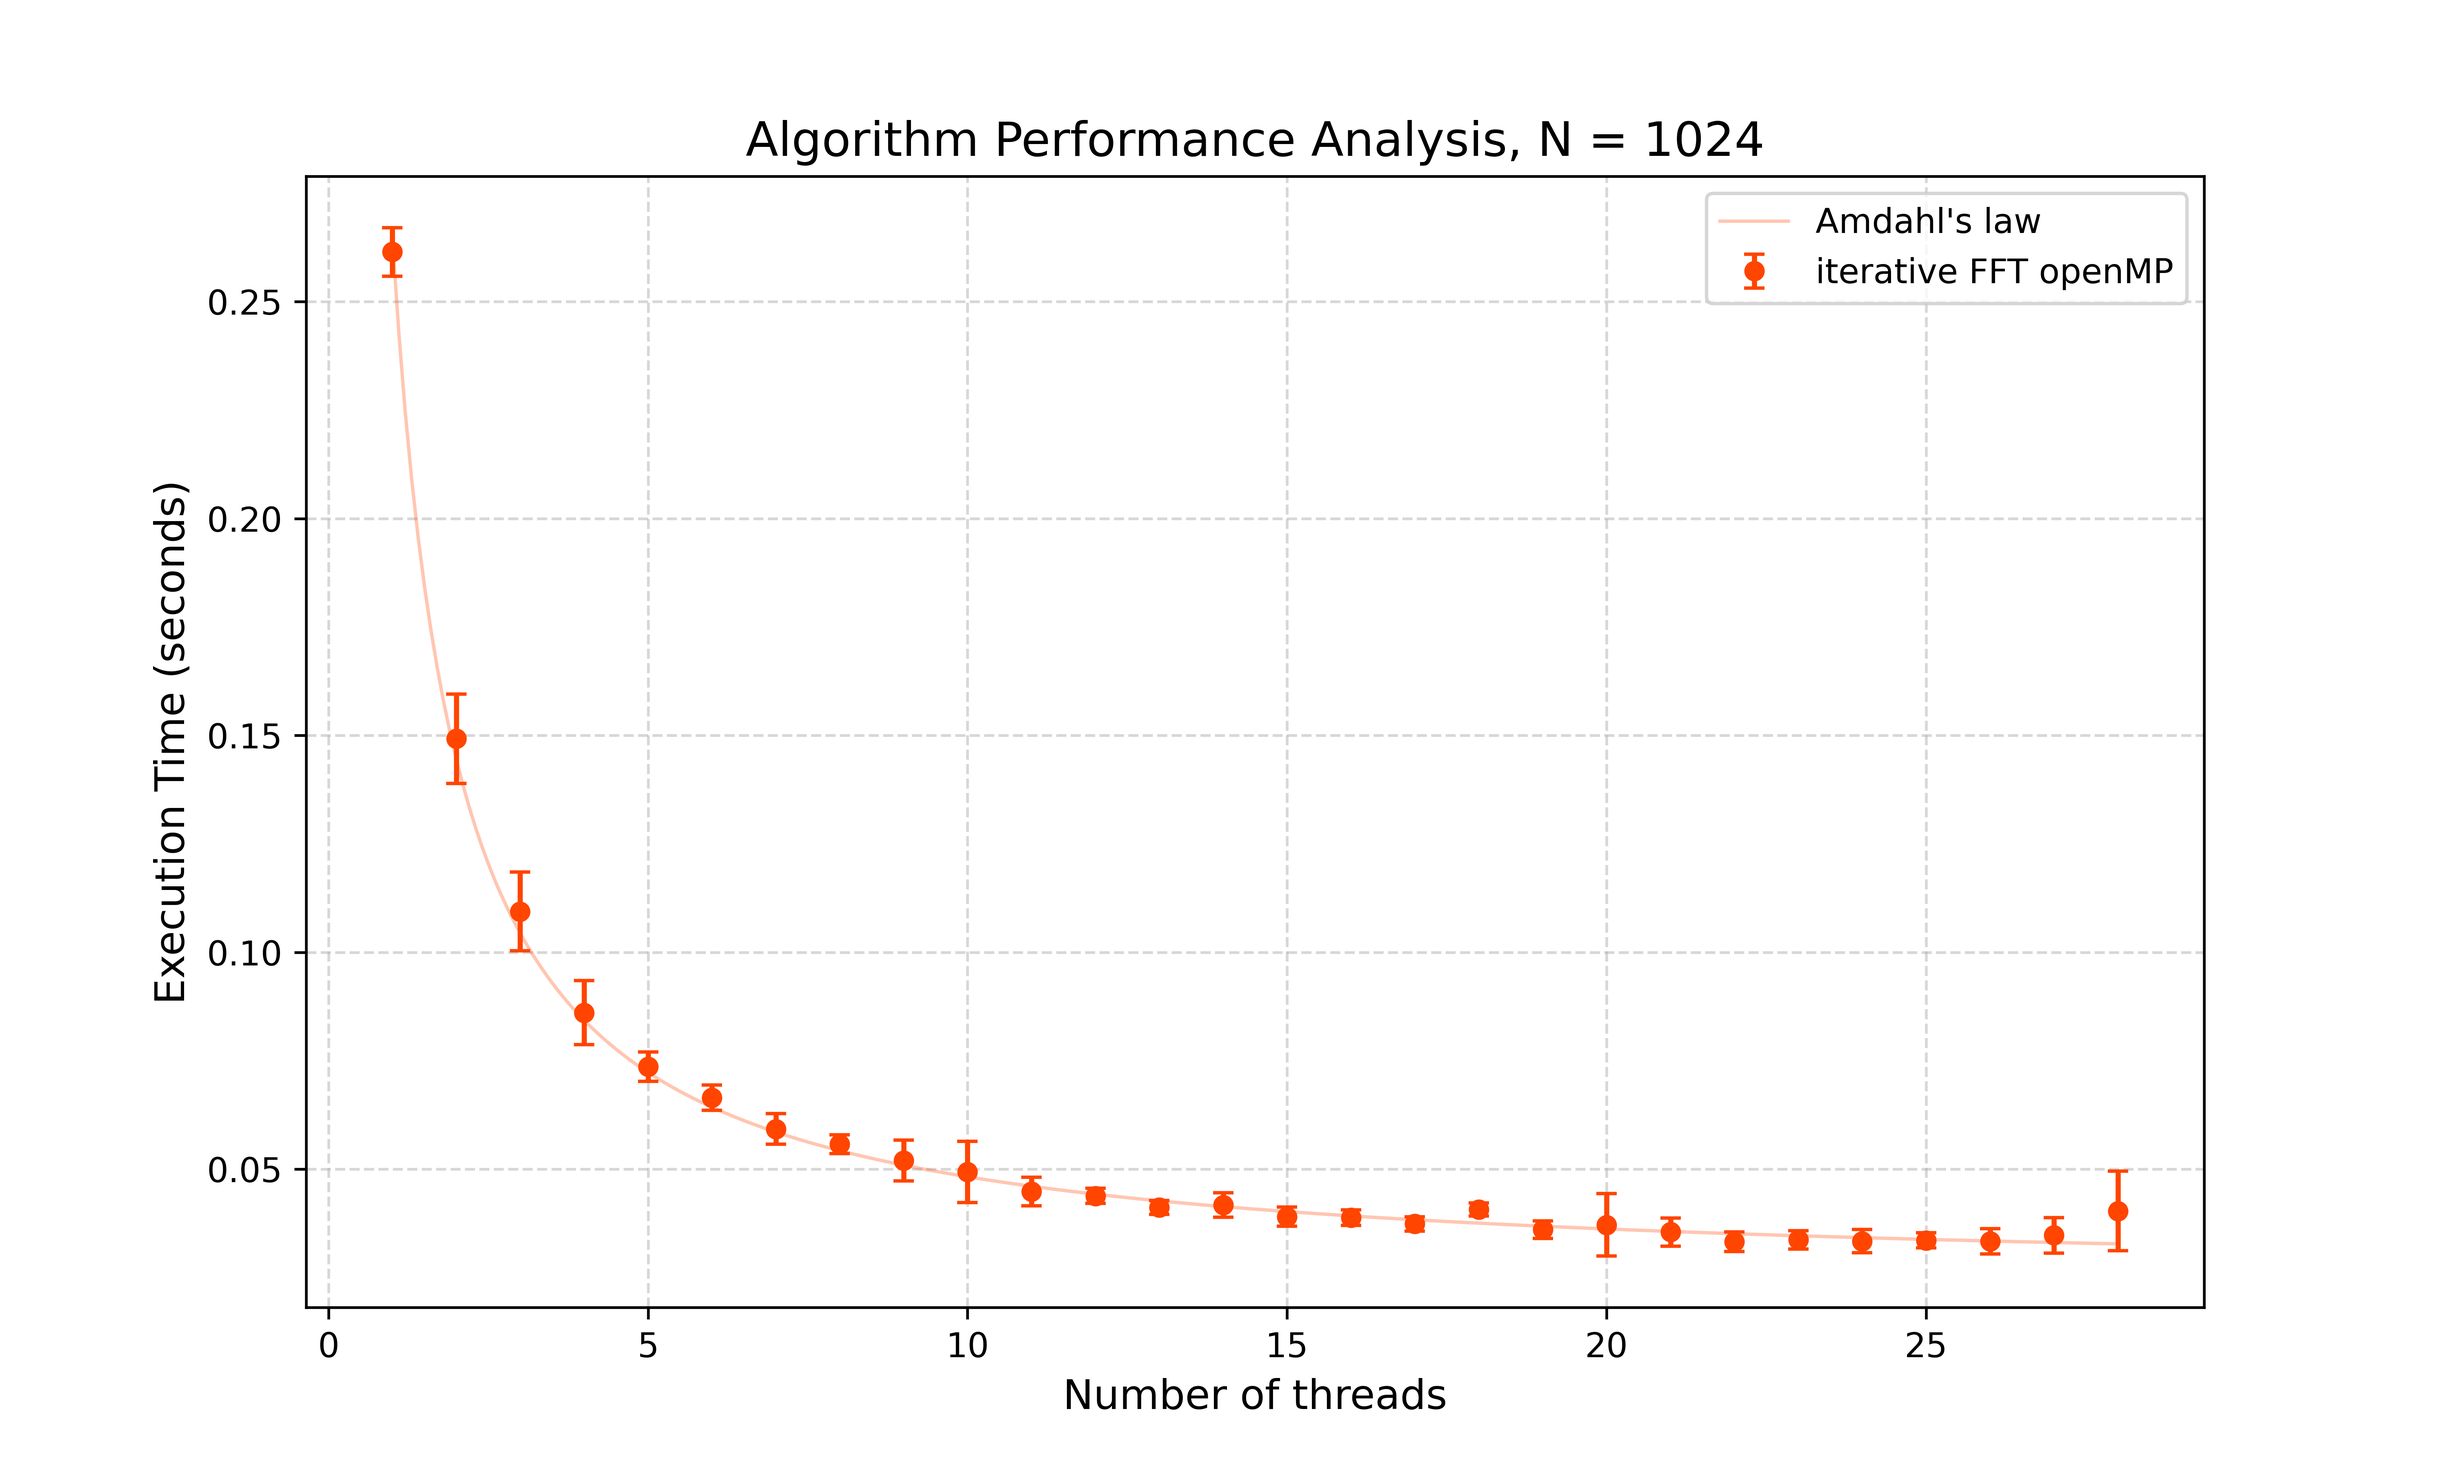
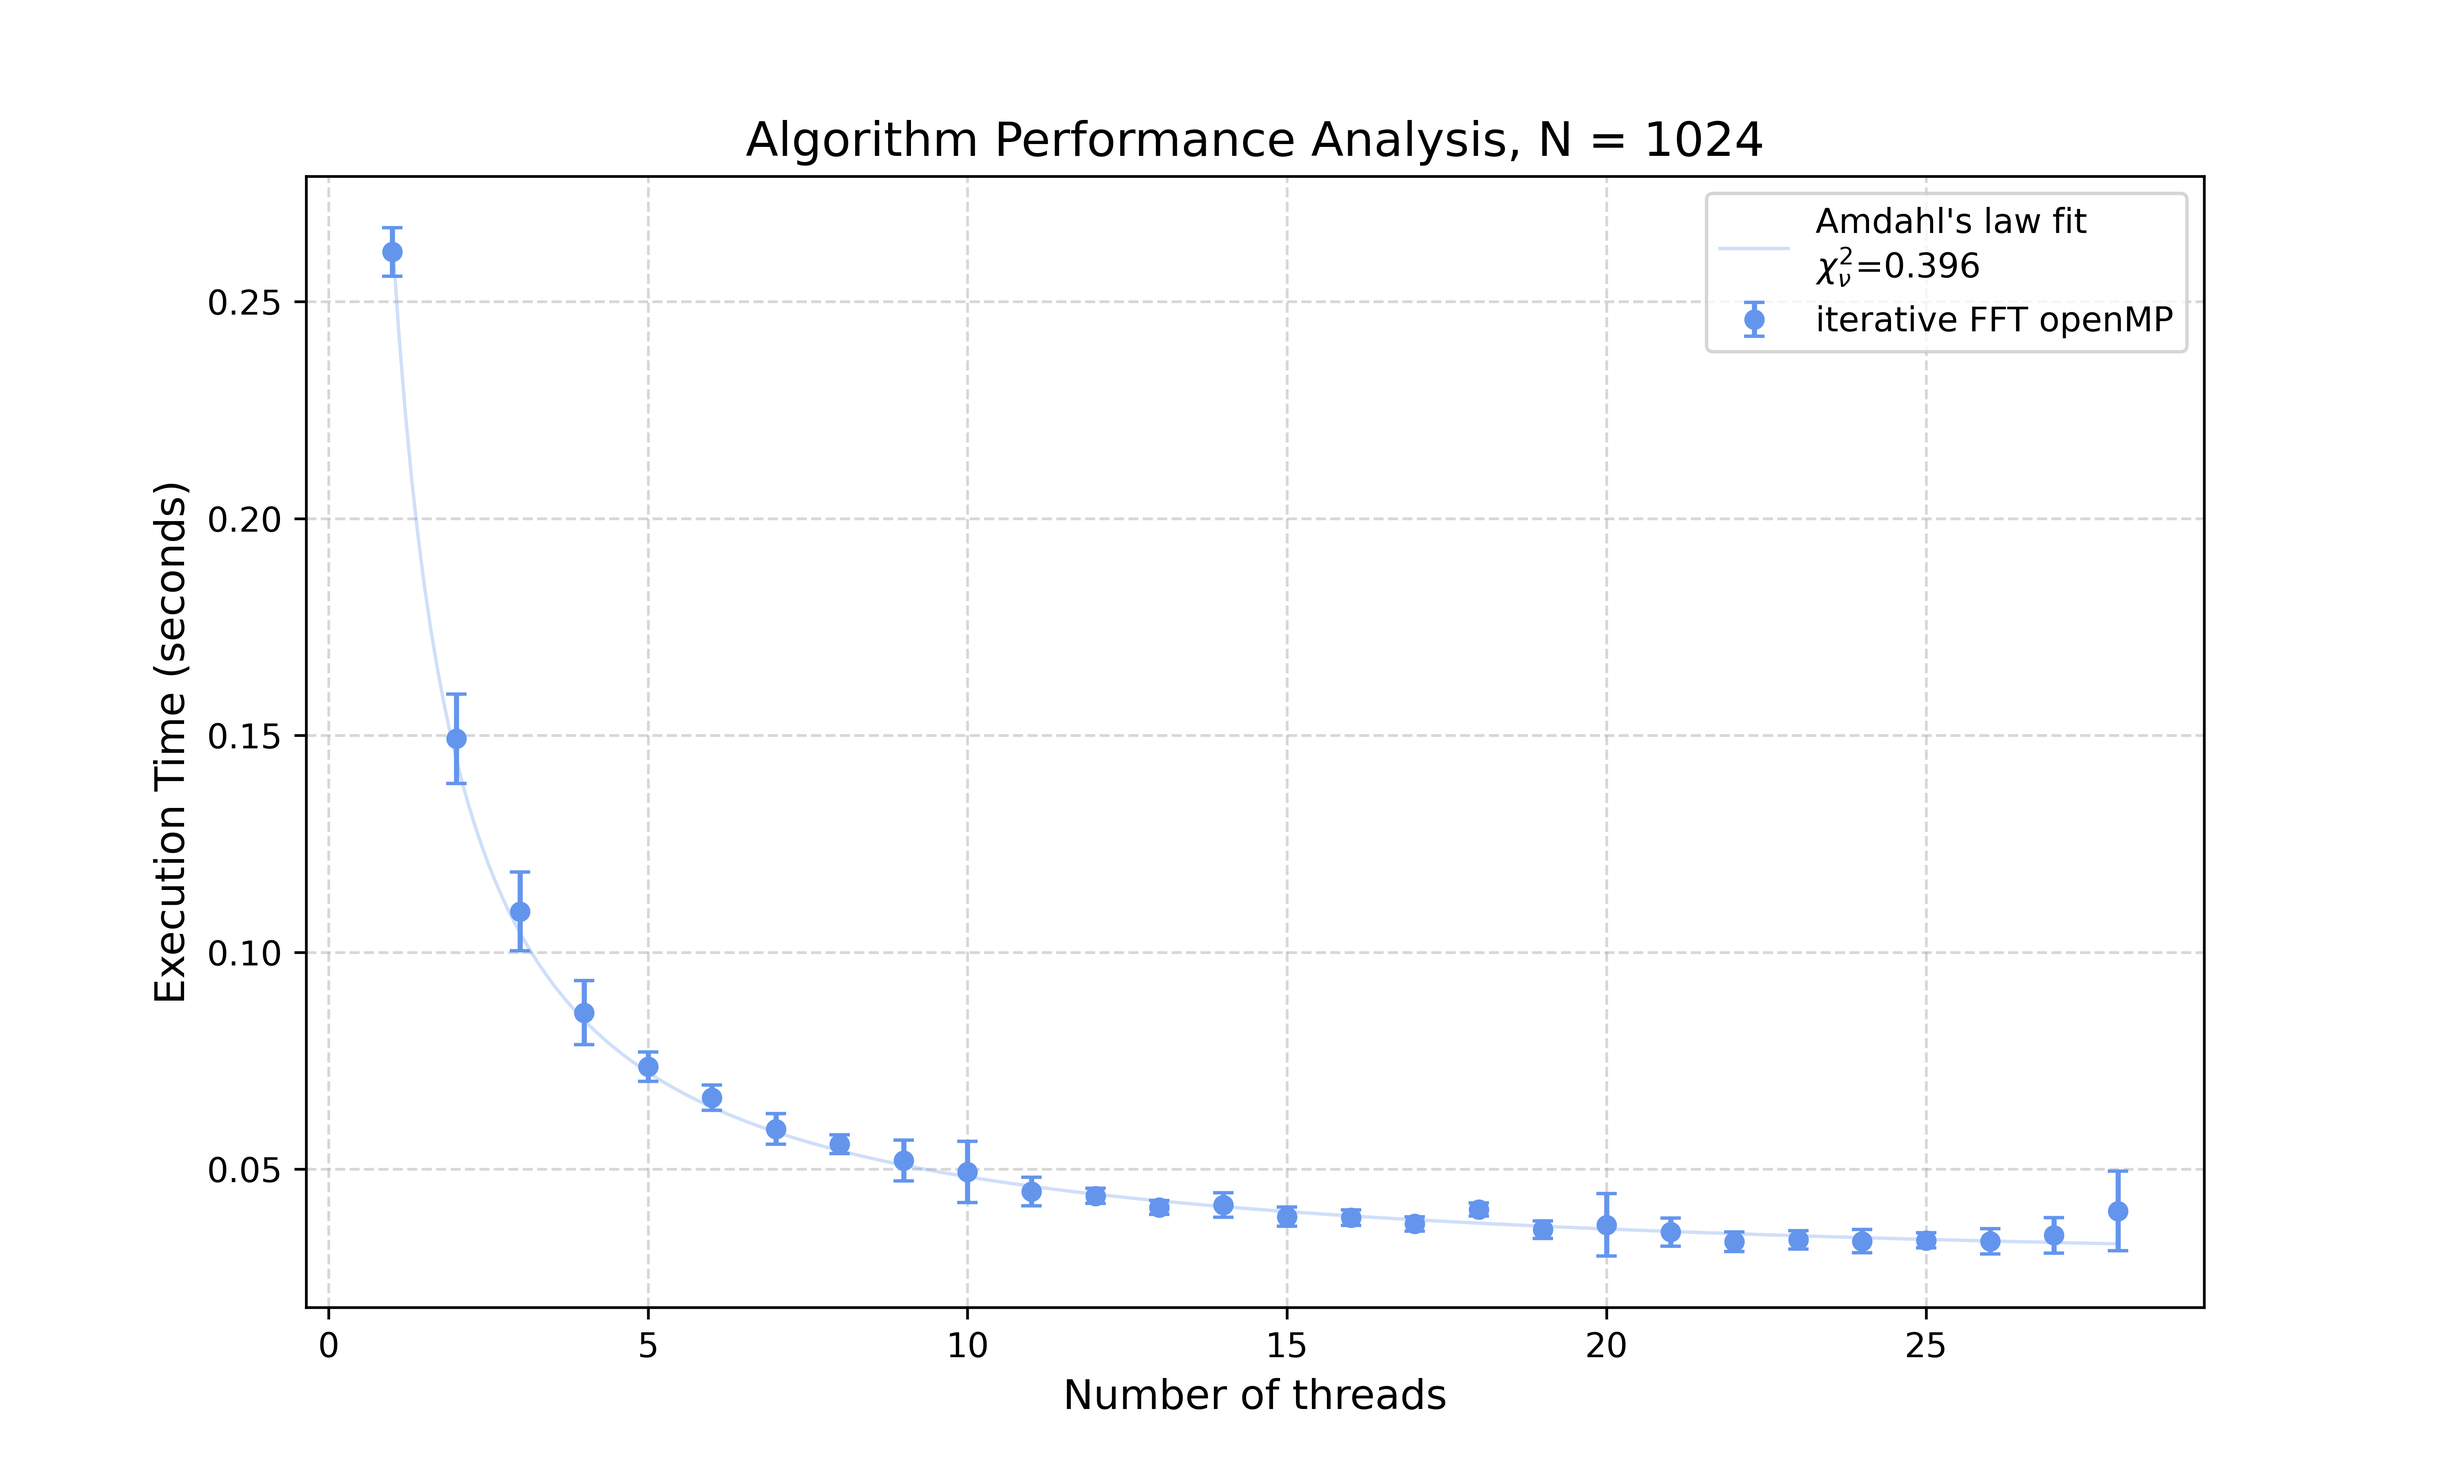
fix comment serial and openmp and add transpose

diff --git a/utils_openmp.c b/utils_openmp.c
@@ -52,14 +52,14 @@ void create_json(char* filename, double* x, double* y, double complex* z, size_t
 	fclose(fptr);
 }
 
-// Function to get elapsed time in seconds 
+// Function to get elapsed time in ms 
 double get_elapsed_time(struct timespec start, struct timespec end) {
     return (end.tv_sec - start.tv_sec) + (end.tv_nsec - start.tv_nsec) / 1e9;
 }
 
 // ************************************************************************************************ //
 // the following functions are used to implement the in-place radix-2 Cooley-Tukey algorithm
-// since it it the fastest compared to the out-of-place
+// since it is the fastest compared to the out-of-place
 // ************************************************************************************************ //
 
 // ------------------------------------------------------------------ //
@@ -131,23 +131,16 @@ void iterative_fft(const double complex *a, double complex *A, size_t n) {
 
     size_t log_n = (size_t)log2(n);
 
-    // s loop is sequential: stage s reads values written by stage s-1.
+    // s loop is sequential: stage s reads values written by stage s-1
     // Parallelising across stages would produce wrong results
     for (size_t s = 1; s <= log_n; s++) {
         size_t m    = (size_t)1 << s;   // 2^s elements per butterfly group
         size_t step = n / m;
 
-        // k loop: each iteration handles a disjoint block A[k .. k+m-1].
-        // No two k-iterations share any element → safe to parallelise.
-        // The if-guard avoids spawning threads for trivially small stages
-        // (e.g. s=1 has only n/2 groups of 2 — overhead outweighs benefit).
-        #pragma omp parallel for schedule(static) if(n > 4096)
+        // k loop: each iteration handles a disjoint block of A
+        // No two k-iterations share any element => safe to parallelise
+        // #pragma omp parallel for schedule(static) //if(n > 4096)
         for (size_t k = 0; k < n; k += m) {
-
-            // j loop: kept sequential inside each thread.
-            // It's only m/2 iterations (at most n/2 at the last stage),
-            // and splitting it further would cause false-sharing on
-            // adjacent A[k+j] / A[k+j+m/2] pairs.
             for (size_t j = 0; j < m / 2; j++) {
                 double complex w = twiddles[j * step];
                 double complex t = w * A[k + j + m / 2];
@@ -156,46 +149,49 @@ void iterative_fft(const double complex *a, double complex *A, size_t n) {
                 A[k + j + m / 2] = u - t;
             }
         }
-        // Implicit barrier at end of parallel for: all butterflies at
-        // stage s are complete before stage s+1 begins.
     }
 }
 
 
-double complex* fftshift_2d(const double complex *X, size_t N) {
+// double complex* fftshift_2d(const double complex *X, size_t N) {
    
-    double complex *X_shift = (double complex *)malloc(N * N * sizeof(double complex));
+//     double complex *X_shift = (double complex *)malloc(N * N * sizeof(double complex));
 
-    #pragma omp parallel for schedule(static) collapse(2)
-    for (size_t i = 0; i < N/2; i++) {
-        for (size_t j = 0; j < N/2; j++) {
+//     #pragma omp parallel for schedule(static) collapse(2)
+//     for (size_t i = 0; i < N/2; i++) {
+//         for (size_t j = 0; j < N/2; j++) {
 
-            // Q0 (top-left)     -> center of Q3 (bottom-right)
-            X_shift[(i + N/2) * N + (j + N/2)] = X[i * N + j];
+//             // Q0 (top-left)     -> center of Q3 (bottom-right)
+//             X_shift[(i + N/2) * N + (j + N/2)] = X[i * N + j];
 
-            // Q3 (bottom-right) -> center of Q0 (top-left)
-            X_shift[i * N + j]                   = X[(i + N/2) * N + (j + N/2)];
+//             // Q3 (bottom-right) -> center of Q0 (top-left)
+//             X_shift[i * N + j]                   = X[(i + N/2) * N + (j + N/2)];
 
-            // Q1 (top-right)    -> center of Q2 (bottom-left)
-            X_shift[(i + N/2) * N + j]          = X[i * N + (j + N/2)];
+//             // Q1 (top-right)    -> center of Q2 (bottom-left)
+//             X_shift[(i + N/2) * N + j]          = X[i * N + (j + N/2)];
 
-            // Q2 (bottom-left)  -> center of Q1 (top-right)
-            X_shift[i * N + (j + N/2)]          = X[(i + N/2) * N + j];
-        }
-    }
+//             // Q2 (bottom-left)  -> center of Q1 (top-right)
+//             X_shift[i * N + (j + N/2)]          = X[(i + N/2) * N + j];
+//         }
+//     }
 
-    return X_shift;
-}
+//     return X_shift;
+// }
 
 
-/////////////////////////////////////////////////////////////////////////////////////////////
-///////// Validate the implementation against the expected cosine transform output  /////////
-/////////////////////////////////////////////////////////////////////////////////////////////
+// ------------------------------------------------------------------------- //
+// Validate the implementation against the expected cosine transform output  //
+// ------------------------------------------------------------------------- //
 
 void validate_fft(double complex *X, size_t N, size_t fx, size_t fy) {
     double tolerance = 1e-6;
     int n_errors = 0;
-    
+
+    // collapse(2) Flatten the nested loops into one iteration space and distribute the
+    // iterations across threads
+    // reduction(+:n_errors) gives every thread a private copy of n_errors
+    // After the loop finishes, OpenMP automatically sums the private values
+    // into the shared variable
     #pragma omp parallel for schedule(static) collapse(2) reduction(+:n_errors)
     for(int i=0; i<(int)N; i++){
         for(int j=0; j<(int)N; j++){
@@ -207,6 +203,7 @@ void validate_fft(double complex *X, size_t N, size_t fx, size_t fy) {
             }
 
             if(diff > tolerance){
+                // Prevent multiple threads from printing simultaneously
                 #pragma omp critical
                 printf("Failed verification");
                 n_errors += 1;

diff --git a/fft_openmp.c b/fft_openmp.c
@@ -17,29 +17,24 @@ int main(int argc, char *argv[]) {
     size_t N  = atoi(argv[1]);
     size_t nth = atoi(argv[2]);
     size_t fx = 2;
-    size_t fy = 2;
+    size_t fy = 3;
 
+    // set number of threads from command line
     omp_set_num_threads(nth);
 
-    // Shared output arrays — each element written by exactly one thread
     double complex *X_kl   = (double complex *)malloc(N * N * sizeof(double complex));
-    double         *abs_v  = (double *)        malloc(N * N * sizeof(double));
-    double         *grid_f = (double *)        malloc(N      * sizeof(double));
-    double         *grid_f_shift = (double *)        malloc(N      * sizeof(double));
-
+    double *abs_v  = (double *)malloc(N * N * sizeof(double));
+    double *grid_f = (double *)malloc(N * sizeof(double));
+    double *grid_f_shift = (double *)malloc(N * sizeof(double));
 
     struct timespec start, t1;
     double elapsed = 0.0;
 
     struct dataset data = create_dataset(N, fx, fy);
 
-
     clock_gettime(CLOCK_MONOTONIC, &start);
 
-    // ── Pass 1: row-wise FFTs ─────────────────────────────────────────────
-    // Rows are contiguous and independent: row i lives at data.Gxy + i*N.
-    // Each thread needs its own X_k buffer to avoid overwriting each other's
-    // intermediate results. We malloc inside the parallel block so every
+    // Malloc inside the parallel block so every
     // thread gets a private copy, then free it before the block closes.
     #pragma omp parallel
     {
@@ -49,7 +44,7 @@ int main(int argc, char *argv[]) {
         // type = static: Iterations of a loop are divided into chunks of size ceiling(number_of_iterations/number_of_threads).
         // Each thread is assigned a separate chunk.
         // dynamic Costs a small synchronisation overhead per chunk
-        // In your FFT loops, every iteration does exactly the same amount of work, iterative_fft runs in O(N log N) 
+        // In these loops, every iteration does exactly the same amount of work
         #pragma omp for schedule(static)    
         for (int i = 0; i < (int)N; i++) {
             iterative_fft(data.Gxy + i * N, X_k, N);
@@ -66,11 +61,9 @@ int main(int argc, char *argv[]) {
     // Implicit barrier at end of parallel block:
     // all rows are fully written before column pass starts.
 
-    // ── Pass 2: column-wise FFTs ──────────────────────────────────────────
-    // Columns are NOT contiguous in memory (stride = N), so we must copy
+    // Columns are not contiguous in memory (stride = N), so copy
     // each column into a temporary buffer before calling iterative_fft.
-    // Each thread handles different columns (i is the column index here),
-    // writing to X_kl[i*N .. i*N+N-1] — disjoint across threads.
+    // Each thread handles different columns
     #pragma omp parallel
     {
         double complex *col = (double complex *)malloc(N * sizeof(double complex));
@@ -78,15 +71,12 @@ int main(int argc, char *argv[]) {
 
         #pragma omp for schedule(static)
         for (int i = 0; i < (int)N; i++) {
-
-            // Gather column i (strided read)
             for (int j = 0; j < (int)N; j++) {
                 col[j] = data.Gxy[i + j * N];
             }
 
             iterative_fft(col, X_l, N);
 
-            // Scatter into X_kl row i — each thread writes a unique row
             for (int j = 0; j < (int)N; j++) {
                 X_kl[i * N + j] = X_l[j];
             }
@@ -96,11 +86,19 @@ int main(int argc, char *argv[]) {
         free(X_l);
     }
 
+    // The above step stores the transpose results
+    #pragma omp parallel for schedule(static)
+    for (int i = 0; i < (int)N; i++) {
+        for (int j = i + 1; j < (int)N; j++) {
+            double complex tmp   = X_kl[i * N + j];
+            X_kl[i * N + j]      = X_kl[j * N + i];
+            X_kl[j * N + i]      = tmp;
+        }
+    }
+
     clock_gettime(CLOCK_MONOTONIC, &t1);
     elapsed = get_elapsed_time(start, t1);
     printf("%.6f\n", elapsed);
-
-    double complex *X_kl_shift = fftshift_2d(X_kl, N);
 
     for (int i = 0; i < (int)N; i++) {
         grid_f[i] = i;
@@ -112,7 +110,6 @@ int main(int argc, char *argv[]) {
 
     if (N == 8) {
         create_json("fft_res_omp.json", grid_f, grid_f, X_kl, N);
-        create_json("fft_res_omp_shift.json", grid_f_shift, grid_f_shift, X_kl_shift, N);
     }
 
     validate_fft(X_kl, N, fx, fy);
@@ -122,7 +119,6 @@ int main(int argc, char *argv[]) {
     free(data.Gxy);
     free(grid_f);
     free(X_kl);
-    free(X_kl_shift);
     free(abs_v);
     return 0;
 }

diff --git a/plot/plt_benchmark_openmp_nth.py b/plot/plt_benchmark_openmp_nth.py
@@ -34,7 +34,13 @@ std_time = df[df['N']==n].groupby('NThreads')['ExecutionTime'].std().values
 
 print(np.min(mean_time), n_threads[np.argmin(mean_time)])
 
-(a, b), _ = scipy.optimize.curve_fit(model, n_threads, mean_time, sigma=std_time)
+# to measure the goodness of the fit
+(a, b), _, infodict, _, _ = scipy.optimize.curve_fit(model, n_threads, mean_time, sigma=std_time, full_output=True)
+chi2 = np.sum(infodict['fvec']**2)
+
+n_params = 2  # a, b
+dof = len(n_threads) - n_params
+red_chi2 = chi2 / dof   # reduced chi2
 
 # 2. Create the visualization
 plt.figure(figsize=(10, 6))
@@ -42,7 +48,7 @@ plt.errorbar(n_threads, mean_time, yerr=std_time,
             fmt='o',
             ms=5,
             capsize=3,
-            color=point_color, 
+            color=point_color, # deepskyblue, cornflowerblue, royalblue, slateblue
             label='iterative FFT openMP',
             zorder=2)
 plt.plot(x, a / x + b, 
@@ -50,7 +56,8 @@ plt.plot(x, a / x + b,
         color=point_color,
         alpha=0.3,
         linewidth=1, 
-        label='Amdahl\'s law',
+        label=f"Amdahl's law fit\n"
+             f"$\\chi^2_\\nu$={red_chi2:.3f}",
         zorder=2)
 
 # 3. Add labels and styling

diff --git a/fft_serial.c b/fft_serial.c
@@ -17,7 +17,7 @@ int main(int argc, char *argv[]){		// put the value of N when run
 
 	size_t N = atoi(argv[1]);
 	size_t fx = 2;						// set frequencies values
-	size_t fy = 2;
+	size_t fy = 3;
 
 	double complex *col = (double complex*)malloc(N * sizeof(double complex));
 	double complex *X_kl = (double complex*)malloc(N * N * sizeof(double complex));
@@ -89,7 +89,15 @@ int main(int argc, char *argv[]){		// put the value of N when run
 		}
 	}
 
-	
+	// The above step stores the transpose results
+	for(int i=0; i < N; i++){
+        for(int j=i+1; j < N; j++){
+            double complex tmp = X_kl[i * N + j];
+            X_kl[i * N + j]    = X_kl[j * N + i];
+            X_kl[j * N + i]    = tmp;
+        }
+    }
+
 	clock_gettime(CLOCK_MONOTONIC, &t1);
 	elapsed = get_elapsed_time(start, t1);
 	printf("%.6f\n", elapsed);
